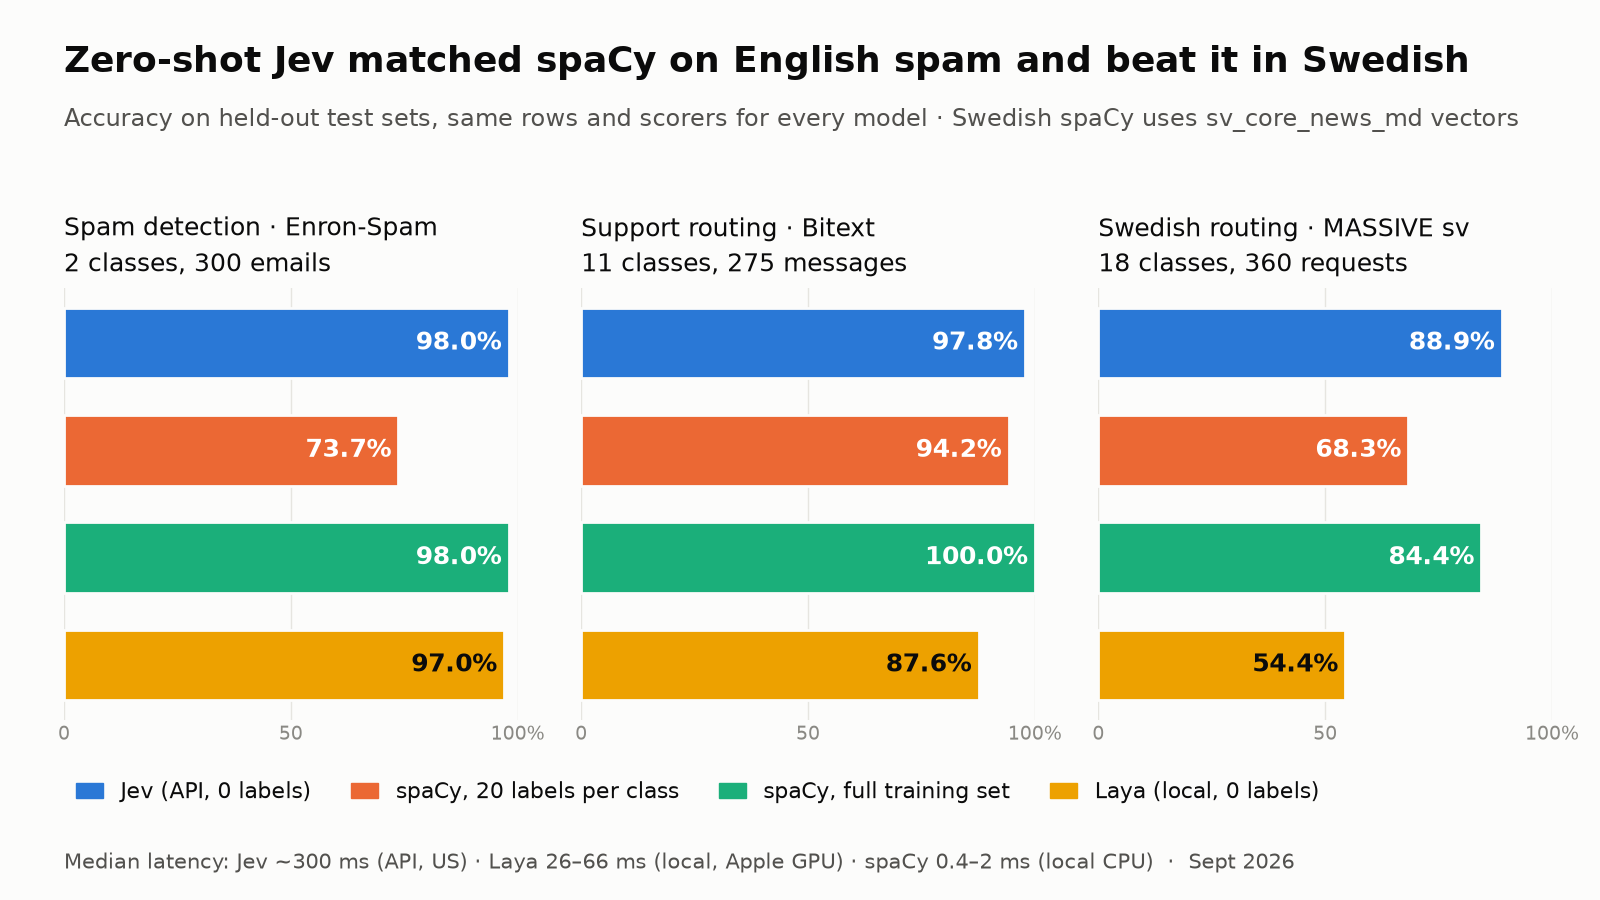
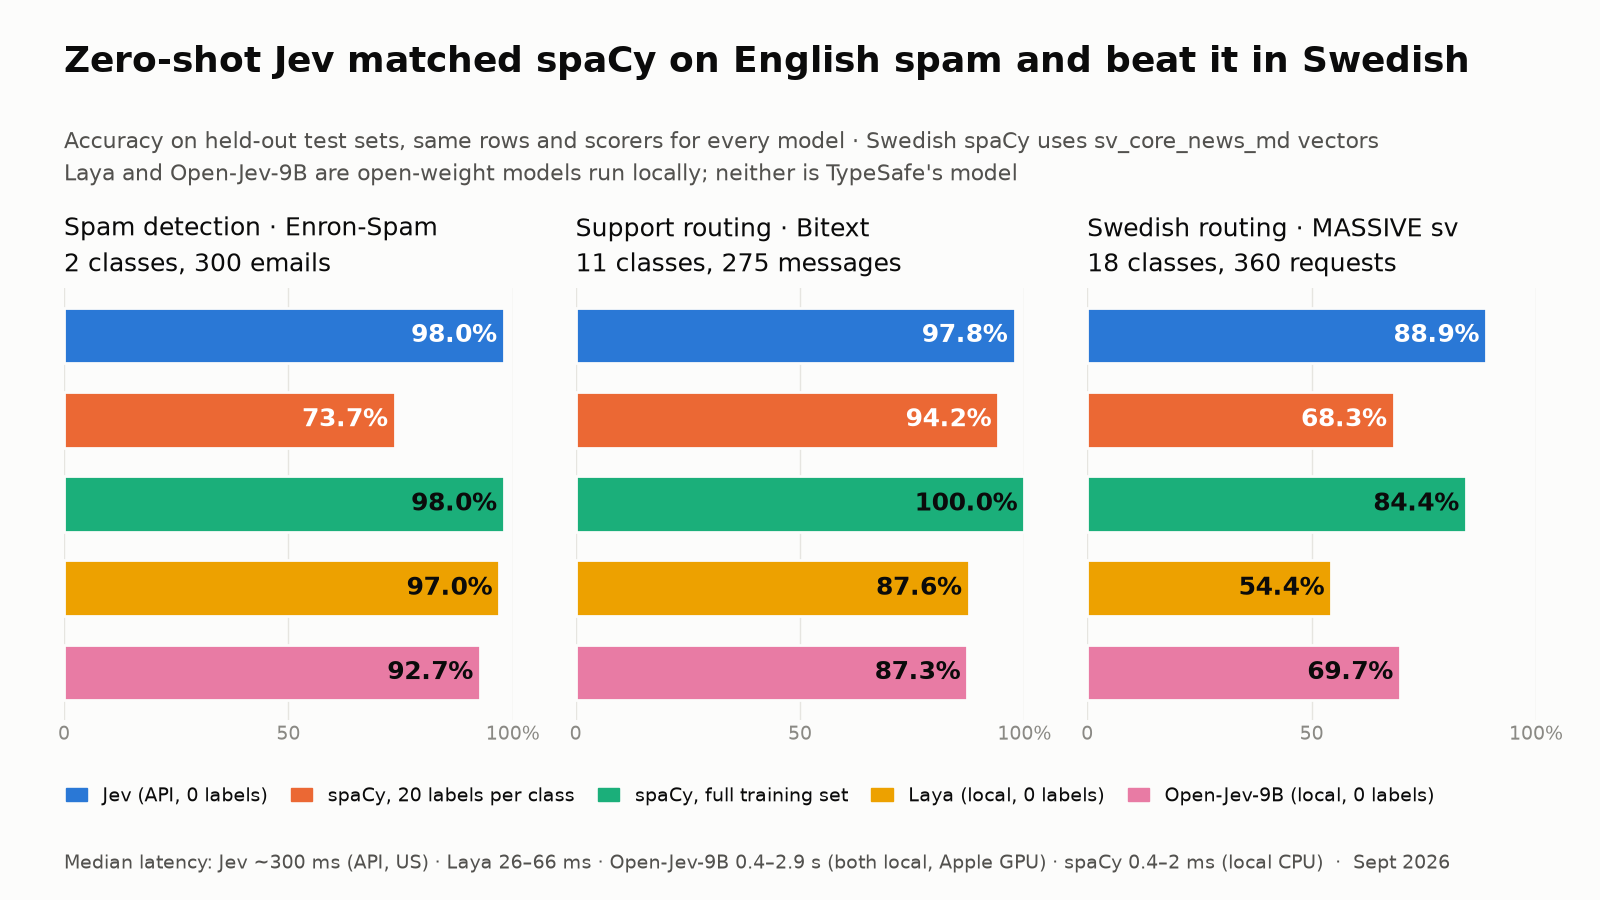
Add self-hosted Open-Jev-9B as a second local contestant (#1)
Laya answers Jev's questions with its own encoder; Open-Jev-9B takes the
opposite route and reproduces Jev's interface on a decoder, as a LoRA adapter
and scalar decision head on Qwen3.5-9B. It is not TypeSafe's model. Its server
speaks the same /v1/systemone wire format the TypeSafe SDK posts and accepts
the jev-latest alias, so the jev contestant runs against it with
TYPESAFE_BASE_URL and no code change. README and results card only.

Full test sets, M5 Pro, bf16 on Metal, one request at a time: 92.7% spam
(recall 86.7, precision 98.5), 87.3% route, 69.7% scenario_sv, at 417 ms to
2.86 s per call. Against Laya it is 15 points better in Swedish, level in
English routing, 4 points worse on spam, and 50 times slower.

The card gains a fifth series on categorical slot 5, repainting no existing
contestant. Label ink is now chosen by measured contrast: white clears 3:1 for
18 pt bold only on blue and orange, so aqua, yellow and pink label in dark ink
(this fixes aqua and yellow, which predate this branch).

Also corrects the data-protection section, which said no open-weight option
existed.

diff --git a/figures/linkedin_card.py b/figures/linkedin_card.py
@@ -8,25 +8,36 @@ from pathlib import Path
 import matplotlib.pyplot as plt
 
 SURFACE, INK, INK_2, MUTED, GRID = "#fcfcfb", "#0b0b0b", "#52514e", "#8a8984", "#e6e5e0"
-# Reference palette, categorical slots 1-4 in fixed order; bars are drawn in slot order so every
-# adjacent pair is a validated one. Colour follows the contestant: adding Laya repainted no one.
-# Label ink per bar: white on the darker three, dark on yellow (white fails contrast there).
+# Reference palette, categorical slots 1-5 in fixed order; bars are drawn in slot order so every
+# adjacent pair is a validated one. Colour follows the contestant: adding Laya, then Open-Jev,
+# repainted no one. Five series validated on this surface: worst adjacent CVD ΔE 9.1, normal-vision
+# ΔE 19.6.
+# Two different contrasts matter here, and only the first is the validator's business:
+#   bar vs surface - #1baf7a 2.8:1, #eda100 2.1:1 and #e87ba4 2.7:1 are under 3:1, which the value
+#     label on every bar relieves;
+#   label ink vs its own bar - 18 pt bold is large text, so the floor is 3:1. Measured white / dark:
+#     #2a78d6 4.4 / 4.5, #eb6834 3.2 / 6.2, #1baf7a 2.8 / 7.0, #eda100 2.2 / 9.1, #e87ba4 2.7 / 7.3.
+#     The three light slots fail in white, so they label in INK.
 CONTESTANTS = [
     ("Jev (API, 0 labels)", "#2a78d6", "#ffffff"),
     ("spaCy, 20 labels per class", "#eb6834", "#ffffff"),
-    ("spaCy, full training set", "#1baf7a", "#ffffff"),
+    ("spaCy, full training set", "#1baf7a", INK),
     ("Laya (local, 0 labels)", "#eda100", INK),
+    ("Open-Jev-9B (local, 0 labels)", "#e87ba4", INK),
 ]
 PANELS = [
-    ("Spam detection · Enron-Spam\n2 classes, 300 emails", [98.0, 73.7, 98.0, 97.0]),
-    ("Support routing · Bitext\n11 classes, 275 messages", [97.8, 94.2, 100.0, 87.6]),
-    ("Swedish routing · MASSIVE sv\n18 classes, 360 requests", [88.9, 68.3, 84.4, 54.4]),
+    ("Spam detection · Enron-Spam\n2 classes, 300 emails", [98.0, 73.7, 98.0, 97.0, 92.7]),
+    ("Support routing · Bitext\n11 classes, 275 messages", [97.8, 94.2, 100.0, 87.6, 87.3]),
+    ("Swedish routing · MASSIVE sv\n18 classes, 360 requests", [88.9, 68.3, 84.4, 54.4, 69.7]),
 ]
-LATENCY = "Median latency: Jev ~300 ms (API, US) · Laya 26–66 ms (local, Apple GPU) · spaCy 0.4–2 ms (local CPU)"
+LATENCY = (
+    "Median latency: Jev ~300 ms (API, US) · Laya 26–66 ms · Open-Jev-9B 0.4–2.9 s "
+    "(both local, Apple GPU) · spaCy 0.4–2 ms (local CPU)"
+)
 
 plt.rcParams.update({"font.family": "DejaVu Sans", "text.color": INK})
 fig, axes = plt.subplots(1, 3, figsize=(16, 9), dpi=100, facecolor=SURFACE)
-fig.subplots_adjust(left=0.04, right=0.97, top=0.68, bottom=0.2, wspace=0.14)
+fig.subplots_adjust(left=0.04, right=0.96, top=0.68, bottom=0.2, wspace=0.14)
 
 fig.text(
     0.04,
@@ -40,9 +51,12 @@ fig.text(
     0.04,
     0.86,
     "Accuracy on held-out test sets, same rows and scorers for every model · "
-    "Swedish spaCy uses sv_core_news_md vectors",
-    fontsize=17,
+    "Swedish spaCy uses sv_core_news_md vectors\n"
+    "Laya and Open-Jev-9B are open-weight models run locally; neither is TypeSafe's model",
+    fontsize=16,
     color=INK_2,
+    linespacing=1.45,
+    va="top",
 )
 
 for ax, (title, values) in zip(axes, PANELS, strict=True):
@@ -66,14 +80,14 @@ fig.legend(
     handles,
     [n for n, _, _ in CONTESTANTS],
     loc="lower left",
-    bbox_to_anchor=(0.035, 0.085),
-    ncol=4,
+    bbox_to_anchor=(0.03, 0.085),
+    ncol=5,
     frameon=False,
-    fontsize=16,
-    handlelength=1.2,
-    columnspacing=1.8,
+    fontsize=14,
+    handlelength=1.1,
+    columnspacing=1.2,
 )
-fig.text(0.04, 0.035, LATENCY + "  ·  Sept 2026", fontsize=15, color=INK_2)
+fig.text(0.04, 0.035, LATENCY + "  ·  Sept 2026", fontsize=14, color=INK_2)
 
 out = Path(__file__).with_name("jev_vs_spacy.png")
 fig.savefig(out, facecolor=SURFACE)

diff --git a/README.md b/README.md
@@ -9,6 +9,7 @@ two email tasks, the same test rows and the same deterministic scorers:
 | `spacy-20shot` | the same pipeline trained on only 20 labelled examples per class | nothing |
 | `jev` | [TypeSafe Jev](https://pydantic.dev/docs/ai/models/typesafe/), a System One decision model, zero-shot | `TYPESAFE_API_KEY` |
 | `laya` | [Laya](https://github.com/NandhaKishorM/laya) 0.3.5, an open-weight System One model (Apache 2.0), run **locally**, zero-shot, asked exactly the questions Jev is asked | `uv sync --group laya` (torch, ~3 GB of checkpoints) |
+| `jev`, repointed | not a contestant of its own: the `jev` contestant with `TYPESAFE_BASE_URL` aimed at a local [Open-Jev-9B](https://huggingface.co/ZefanCai/Open-Jev-9B) server, an open-weights reproduction of Jev's *interface* on Qwen3.5-9B | well over 16 GB of GPU or unified memory, 18 GB of weights on disk |
 | `claude` | Claude Opus 5 via structured output at `effort=low`, zero-shot, the same schema Jev reads | `ANTHROPIC_API_KEY` |
 
 | task | data | test set |
@@ -60,7 +61,7 @@ recall, and `precision · spam`, only scored on rows predicted spam, gives true 
 
 ## Results (2026-09-21, full test sets; Claude not run)
 
-![Accuracy of Jev and spaCy on English spam, English support routing and Swedish routing](figures/jev_vs_spacy.png)
+![Accuracy of Jev, Laya, Open-Jev-9B and spaCy on English spam, English support routing and Swedish routing](figures/jev_vs_spacy.png)
 
 
 | | spam acc | spam recall | spam precision | route acc | p50 latency | p95 latency |
@@ -69,6 +70,7 @@ recall, and `precision · spam`, only scored on rows predicted spam, gives true 
 | spaCy, 20 labelled per class | 73.7% | 61.3% | 81.4% | 94.2% | 0.4–2 ms | 0.4–8 ms |
 | **Jev, zero-shot** (`jev-latest`) | **98.0%** | **97.3%** | **98.6%** | **97.8%** | ~300 ms | ~375–400 ms |
 | Laya, zero-shot, local (Apple MPS) | 97.0% | 99.3% | 94.9% | 87.6% | 47–66 ms | |
+| Open-Jev-9B, zero-shot, local (Apple MPS) | 92.7% | 86.7% | 98.5% | 87.3% | 0.4–2.0 s | 1.1–2.3 s |
 | Claude Opus 5, zero-shot | – | – | – | – | – | – |
 
 **Swedish (`scenario_sv`, 360 test requests, not logged to Braintrust: the month's score quota was used up)**
@@ -79,6 +81,7 @@ recall, and `precision · spam`, only scored on rows predicted spam, gives true 
 | spaCy + `sv_core_news_md` vectors, 20 labelled per class | 68.3% | 0.4 ms |
 | **Jev, zero-shot** (English criteria, Swedish text) | **88.9%** | ~306 ms |
 | Laya `laya-multilingual`, zero-shot, local | 54.4% | 26 ms |
+| Open-Jev-9B, zero-shot, local | 69.7% | ~2.9 s |
 
 Jev beat even the fully trained Swedish spaCy model here. At confidence ≥ 0.8 (85% of requests) it
 scored 94.4%. Most errors involve MASSIVE's catch-all `general` class and the `play`/`music` overlap,
@@ -122,6 +125,70 @@ Caveats: the English routing descriptions were tuned for Jev (on the dev split),
 tuned at all. Laya was released on 2026-09-18, so it may improve quickly. Laya's own benchmarks
 use other datasets. The source was reviewed before installing: weights load through `safetensors`,
 with no `trust_remote_code` and no network calls beyond the Hugging Face download.
+
+## Open-Jev-9B: the other open-weight route (2026-09-25)
+
+Laya answers Jev's questions with its own encoder. [Open-Jev](https://github.com/Zefan-Cai/Open-Jev)
+takes the opposite route and reproduces Jev's *interface* on a decoder:
+[`Open-Jev-9B`](https://huggingface.co/ZefanCai/Open-Jev-9B) is a LoRA adapter (rank 8) plus a trained
+scalar decision head and a calibration temperature on `Qwen/Qwen3.5-9B`. It scores each candidate as its
+own forward pass, with no generated text to parse. It is not TypeSafe's model, and nobody outside its
+authors has benchmarked it:
+[DecisionEval](https://decisioneval.dev/compare/open-jev-9b-vs-typesafe-jev/) says so in as many words.
+Its card's own figures (97.5% on its test split, 92.0% out of distribution) do not carry over here.
+
+Its server speaks the same `/v1/systemone` wire format the TypeSafe SDK posts and accepts `jev-latest`
+as an alias, so the `jev` contestant runs against it with no code change:
+
+```bash
+uv venv --python 3.12 jevenv && VIRTUAL_ENV=jevenv uv pip install \
+  "torch>=2.8" transformers==5.10.2 peft==0.19.1 accelerate==1.13.0 safetensors "huggingface_hub[cli]"
+git clone https://github.com/Zefan-Cai/Open-Jev && VIRTUAL_ENV=jevenv uv pip install ./Open-Jev
+jevenv/bin/hf download ZefanCai/Open-Jev-9B --include "package/checkpoint/*" --local-dir open-jev-9b
+PYTORCH_ENABLE_MPS_FALLBACK=1 jevenv/bin/python -m jev.server \
+  --checkpoint open-jev-9b/package/checkpoint --device mps --max-length 4096 --batch-size 2
+
+TYPESAFE_BASE_URL=http://127.0.0.1:8791 TYPESAFE_API_KEY=local \
+  uv run braintrust eval --no-send-logs eval_email.py
+```
+
+Because it *is* the `jev` contestant, its experiments are named `spam-jev`, `route-jev` and
+`scenario_sv-jev` and carry `model: typesafe:jev-latest`, exactly like a hosted run. Give the
+self-hosted run its own `BRAINTRUST_PROJECT`, or `--no-send-logs`, or the two overwrite each other.
+
+Measured on an M5 Pro (48 GB), bf16 on Metal, full test sets, one request at a time:
+
+| | Jev (API) | Laya (local) | Open-Jev-9B (local) |
+|---|---|---|---|
+| spam | **98.0%** | 97.0% | 92.7% (recall 86.7, precision 98.5) |
+| route | **97.8%** | 87.6% | 87.3% |
+| scenario_sv | **88.9%** | 54.4% | 69.7% |
+| p50 latency | ~300 ms | 26–66 ms | 417 ms – 2.86 s |
+
+- **Between the two local models the answer is per task.** Open-Jev is 15 points better in Swedish,
+  level in English routing, and 4 points worse on spam. Laya answers 50 times faster, which for spam,
+  where it is also more accurate, settles it.
+- **Latency scales with the number of options, because every candidate is its own forward pass.** One
+  sequence for the spam yes/no question, 11 for `route`, 18 for `scenario_sv`. Jev stays near 300 ms on
+  all three, so the gap widens as the label set grows. These figures are sequential: the server
+  serialises requests behind a lock, where the Jev numbers above ran 8 at a time.
+- **Swedish collapses toward one class.** `transport` absorbs 36 of the 109 errors (`lists → transport`
+  11 times, `email → transport` 9). Still well ahead of Laya's multilingual checkpoint.
+- **On spam it misses spam rather than quarantining real mail:** recall 86.7% against precision 98.5%,
+  the opposite skew to Laya's (99.3% recall, 94.9% precision).
+- **Confidence still works as a filter,** which is what `distill.py` needs: at confidence ≥ 0.8 it scores
+  99.2% on the 80% of spam it keeps, 100% on 22% of `route` and 95.7% on 19% of `scenario_sv`.
+
+Caveats: the English routing descriptions were tuned for Jev, not for this model. Its resident set is
+smaller than the 18 GB of weights on disk because Qwen3.5-9B is multimodal and Open-Jev keeps only
+`model.language_model` (14.78 GiB in bf16), dropping the vision tower, `mtp` and `lm_head` right after
+load. Plus activations, that is comfortably more than a 16 GB card holds; 48 GB is the only machine
+this was run on, so treat the floor as untested. `--batch-size 4` was killed under memory pressure
+there; `--batch-size 2` finished. Batch size changes memory only, not the answers: the
+server reassembles a split choice before it normalises. Qwen3.5's linear-attention layers fall back to a
+slow PyTorch path here, because the
+[flash-linear-attention](https://github.com/fla-org/flash-linear-attention) kernels are CUDA-only, so a
+CUDA machine would beat these latencies.
 
 ## Jev labels, spaCy learns (`distill.py`)
 
@@ -211,8 +278,8 @@ What TypeSafe's [privacy policy](https://typesafe.ai/legal/privacy-policy) says 
   and Google Workspace, all US-based; and there is no EU region (only us-west). To check the current
   status yourself, search for "TypeSafe" in the
   [DPF participant search](https://www.dataprivacyframework.gov/s/participant-search).
-- **Self-hosting:** none. Jev is a closed, hosted API in early access, with no on-premise or open-weight
-  option published.
+- **Self-hosting:** none from TypeSafe. Jev is a closed, hosted API in early access, with no on-premise
+  or open-weight option published. Laya and Open-Jev-9B are independent models, not TypeSafe's weights.
 
 So sending real email through Jev is a GDPR decision for your DPO, not only an engineering one. At a
 minimum it needs a DPA, a transfer mechanism for US processing, and a retention agreement. Ways to
@@ -222,7 +289,10 @@ keep the text in-house, from strictest to loosest:
 2. **Jev only at training time (`distill.py`):** Jev labels a training pool once, and production
    runs spaCy locally with no external calls. On Swedish this matched human labels (82.5% vs 82.8%).
    Label a pool that is already public, synthetic or pseudonymised, and no real mail ever leaves.
-3. **Pseudonymise before each call:** replace names, addresses and numbers with placeholders first
+3. **A local System One model:** Laya or self-hosted Open-Jev-9B answers the same questions from the
+   same schemas with nothing leaving the machine. Taking whichever of the two is better at each task,
+   that costs about 1 point on spam, 10 on English routing and 19 on Swedish.
+4. **Pseudonymise before each call:** replace names, addresses and numbers with placeholders first
    (spaCy's `sv_core_news_*` NER finds Swedish names). Categorisation rarely depends on who wrote the
    mail, but this reduces the personal data sent rather than removing it.
 
